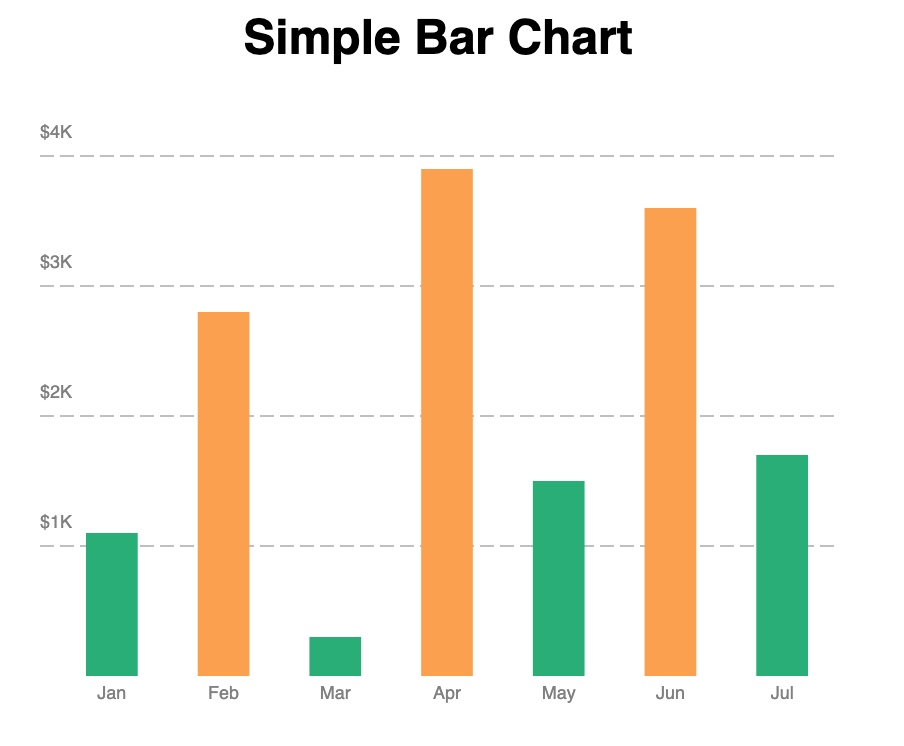
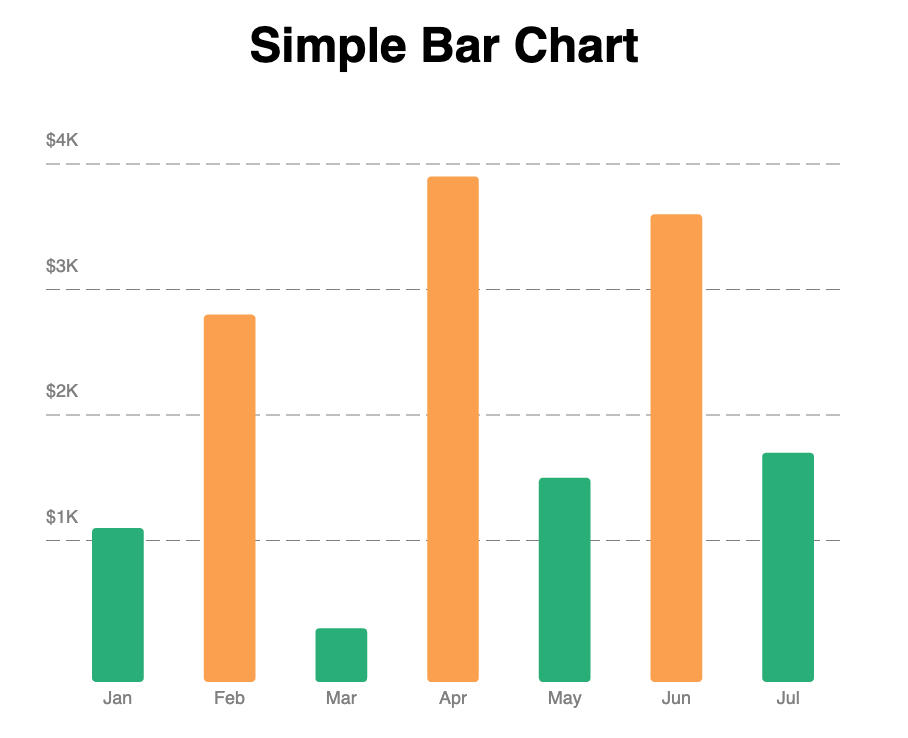
rounded corners!

diff --git a/src/SimpleChart.js b/src/SimpleChart.js
@@ -1,4 +1,17 @@
 
+
+function roundedRect(ctx, x, y, w, h, cr, color) {
+    ctx.strokeStyle = color
+    ctx.lineJoin = "round";
+    ctx.lineWidth = cr;
+    ctx.strokeRect(x+(cr/2), y+(cr/2), w-cr, h-cr);
+    ctx.shadowSize = 0
+    ctx.shadowColor = color
+    ctx.fillRect(x+(cr/2), y+(cr/2), w-cr, h-cr);
+    ctx.lineWidth = 1
+}
+
+
 /**
  * Number formatter for grid values on y-axis
  * @param {Number} n 
@@ -229,7 +242,7 @@ class SimpleBarChart extends SimpleChart {
         this.barHoverFontFamily = 'sans-serif'
         this.barHoverFontSize = '24px'
         this.barHoverFontColor = 'black'
-
+        this.cornerRadius = props.hasOwnProperty('cornerRadius') ? props.cornerRadius : 8;
 
         this.hover = props.hover || true;
         this.colors = props.colors || null
@@ -246,7 +259,7 @@ class SimpleBarChart extends SimpleChart {
         this._MAX_ARR = Math.max(...this.values);
         this._GRID_LINES = Math.ceil( this._MAX_ARR / this.scale )
         this._MAX = this._GRID_LINES * this.scale
-        this._MAX_BAR_HEIGHT = this.height - this.topSpacing - this.labelSpace
+        this._MAX_BAR_HEIGHT = this.height - this.topSpacing - this.labelSpace - this.cornerRadius
         this._GRID_LINE_SPACE = this._MAX_BAR_HEIGHT / this._GRID_LINES
         this._BAR_BOTTOM = this.height - this.labelSpace
     }
@@ -297,7 +310,8 @@ class SimpleBarChart extends SimpleChart {
                 this.colorMap[i] = this.colorMap[i] || this.colorWheel.get()
                 this.context.beginPath()
                 this.context.fillStyle = this.colorMap[i]
-                this.context.fillRect(x - this.viewport.x, y, this._BAR_WIDTH, barHeight)
+                roundedRect(this.context, x - this.viewport.x, y, this._BAR_WIDTH, barHeight, this.cornerRadius, this.colorMap[i])
+                // this.context.fillRect(x - this.viewport.x, y, this._BAR_WIDTH, barHeight)
                 this.context.stroke()
                 this.context.shadowBlur = 0
                 drawLabel(this.context, this.labels[i] || '', x + (this._BAR_WIDTH / 2), this.height - (this.labelSpace / 4), this.xAxisFontSize, this.xAxisFontFamily, this.xAxisFontColor, 'center')

diff --git a/src.html b/src.html
@@ -24,7 +24,9 @@
             xAxisLine: false,
             gridLineColor: 'gray',
             gridFontColor: 'gray',
-            dashes: 40
+            dashes: 40,
+            cornerRadius: 8,
+            labelSpace: 40
         })
         bars.draw()
 
